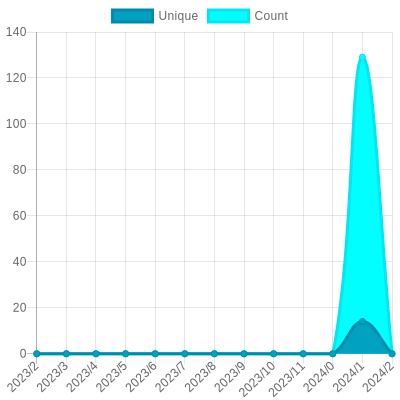
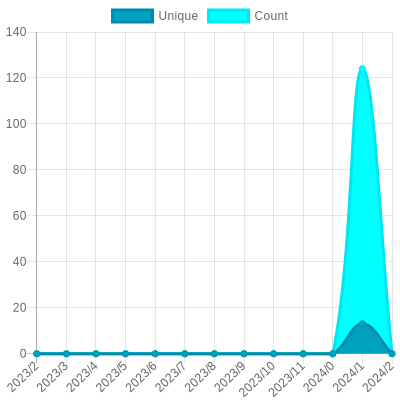
Update views

diff --git a/readme/392170425/year.md b/readme/392170425/year.md
@@ -34,10 +34,10 @@
 			<code>2023/2/1</code>
 		</td>
 		<td>
-			<code>14</code>
+			<code>13</code>
 		</td>
 		<td>
-			<code>129</code>
+			<code>124</code>
 		</td>
 	</tr>
 	<tr>
@@ -164,7 +164,7 @@
 </table>
 
 </details>
-<small><i>Last updated on 2023/3/3 12:31 PM UTC</i></small>
+<small><i>Last updated on 2023/3/3 6:21 PM UTC</i></small>
 
 ## ✂Copy and 📋 Paste
 ### SVG Badge

diff --git a/README.md b/README.md
@@ -229,7 +229,7 @@ The project created and maintained by [gayanvoice](https://github.com/gayanvoice
 	</tr>
 </table>
 
-<small><i>Last updated on 2023/3/3 12:33 PM UTC</i></small>
+<small><i>Last updated on 2023/3/3 6:23 PM UTC</i></small>
 
 ## ✂Copy and 📋 Paste
 ### Total Views Badge

diff --git a/readme/379145148/year.md b/readme/379145148/year.md
@@ -164,7 +164,7 @@
 </table>
 
 </details>
-<small><i>Last updated on 2023/3/3 12:31 PM UTC</i></small>
+<small><i>Last updated on 2023/3/3 6:21 PM UTC</i></small>
 
 ## ✂Copy and 📋 Paste
 ### SVG Badge

diff --git a/readme/381216552/year.md b/readme/381216552/year.md
@@ -164,7 +164,7 @@
 </table>
 
 </details>
-<small><i>Last updated on 2023/3/3 12:31 PM UTC</i></small>
+<small><i>Last updated on 2023/3/3 6:21 PM UTC</i></small>
 
 ## ✂Copy and 📋 Paste
 ### SVG Badge

diff --git a/readme/381531524/year.md b/readme/381531524/year.md
@@ -164,7 +164,7 @@
 </table>
 
 </details>
-<small><i>Last updated on 2023/3/3 12:31 PM UTC</i></small>
+<small><i>Last updated on 2023/3/3 6:21 PM UTC</i></small>
 
 ## ✂Copy and 📋 Paste
 ### SVG Badge

diff --git a/readme/384305617/year.md b/readme/384305617/year.md
@@ -164,7 +164,7 @@
 </table>
 
 </details>
-<small><i>Last updated on 2023/3/3 12:31 PM UTC</i></small>
+<small><i>Last updated on 2023/3/3 6:21 PM UTC</i></small>
 
 ## ✂Copy and 📋 Paste
 ### SVG Badge

diff --git a/readme/384545000/year.md b/readme/384545000/year.md
@@ -164,7 +164,7 @@
 </table>
 
 </details>
-<small><i>Last updated on 2023/3/3 12:33 PM UTC</i></small>
+<small><i>Last updated on 2023/3/3 6:23 PM UTC</i></small>
 
 ## ✂Copy and 📋 Paste
 ### SVG Badge

diff --git a/readme/389237892/year.md b/readme/389237892/year.md
@@ -164,7 +164,7 @@
 </table>
 
 </details>
-<small><i>Last updated on 2023/3/3 12:32 PM UTC</i></small>
+<small><i>Last updated on 2023/3/3 6:22 PM UTC</i></small>
 
 ## ✂Copy and 📋 Paste
 ### SVG Badge

diff --git a/readme/392861972/year.md b/readme/392861972/year.md
@@ -164,7 +164,7 @@
 </table>
 
 </details>
-<small><i>Last updated on 2023/3/3 12:32 PM UTC</i></small>
+<small><i>Last updated on 2023/3/3 6:22 PM UTC</i></small>
 
 ## ✂Copy and 📋 Paste
 ### SVG Badge

diff --git a/readme/402182945/year.md b/readme/402182945/year.md
@@ -164,7 +164,7 @@
 </table>
 
 </details>
-<small><i>Last updated on 2023/3/3 12:32 PM UTC</i></small>
+<small><i>Last updated on 2023/3/3 6:23 PM UTC</i></small>
 
 ## ✂Copy and 📋 Paste
 ### SVG Badge

diff --git a/readme/409003429/year.md b/readme/409003429/year.md
@@ -164,7 +164,7 @@
 </table>
 
 </details>
-<small><i>Last updated on 2023/3/3 12:32 PM UTC</i></small>
+<small><i>Last updated on 2023/3/3 6:22 PM UTC</i></small>
 
 ## ✂Copy and 📋 Paste
 ### SVG Badge

diff --git a/readme/418991850/year.md b/readme/418991850/year.md
@@ -164,7 +164,7 @@
 </table>
 
 </details>
-<small><i>Last updated on 2023/3/3 12:32 PM UTC</i></small>
+<small><i>Last updated on 2023/3/3 6:22 PM UTC</i></small>
 
 ## ✂Copy and 📋 Paste
 ### SVG Badge
